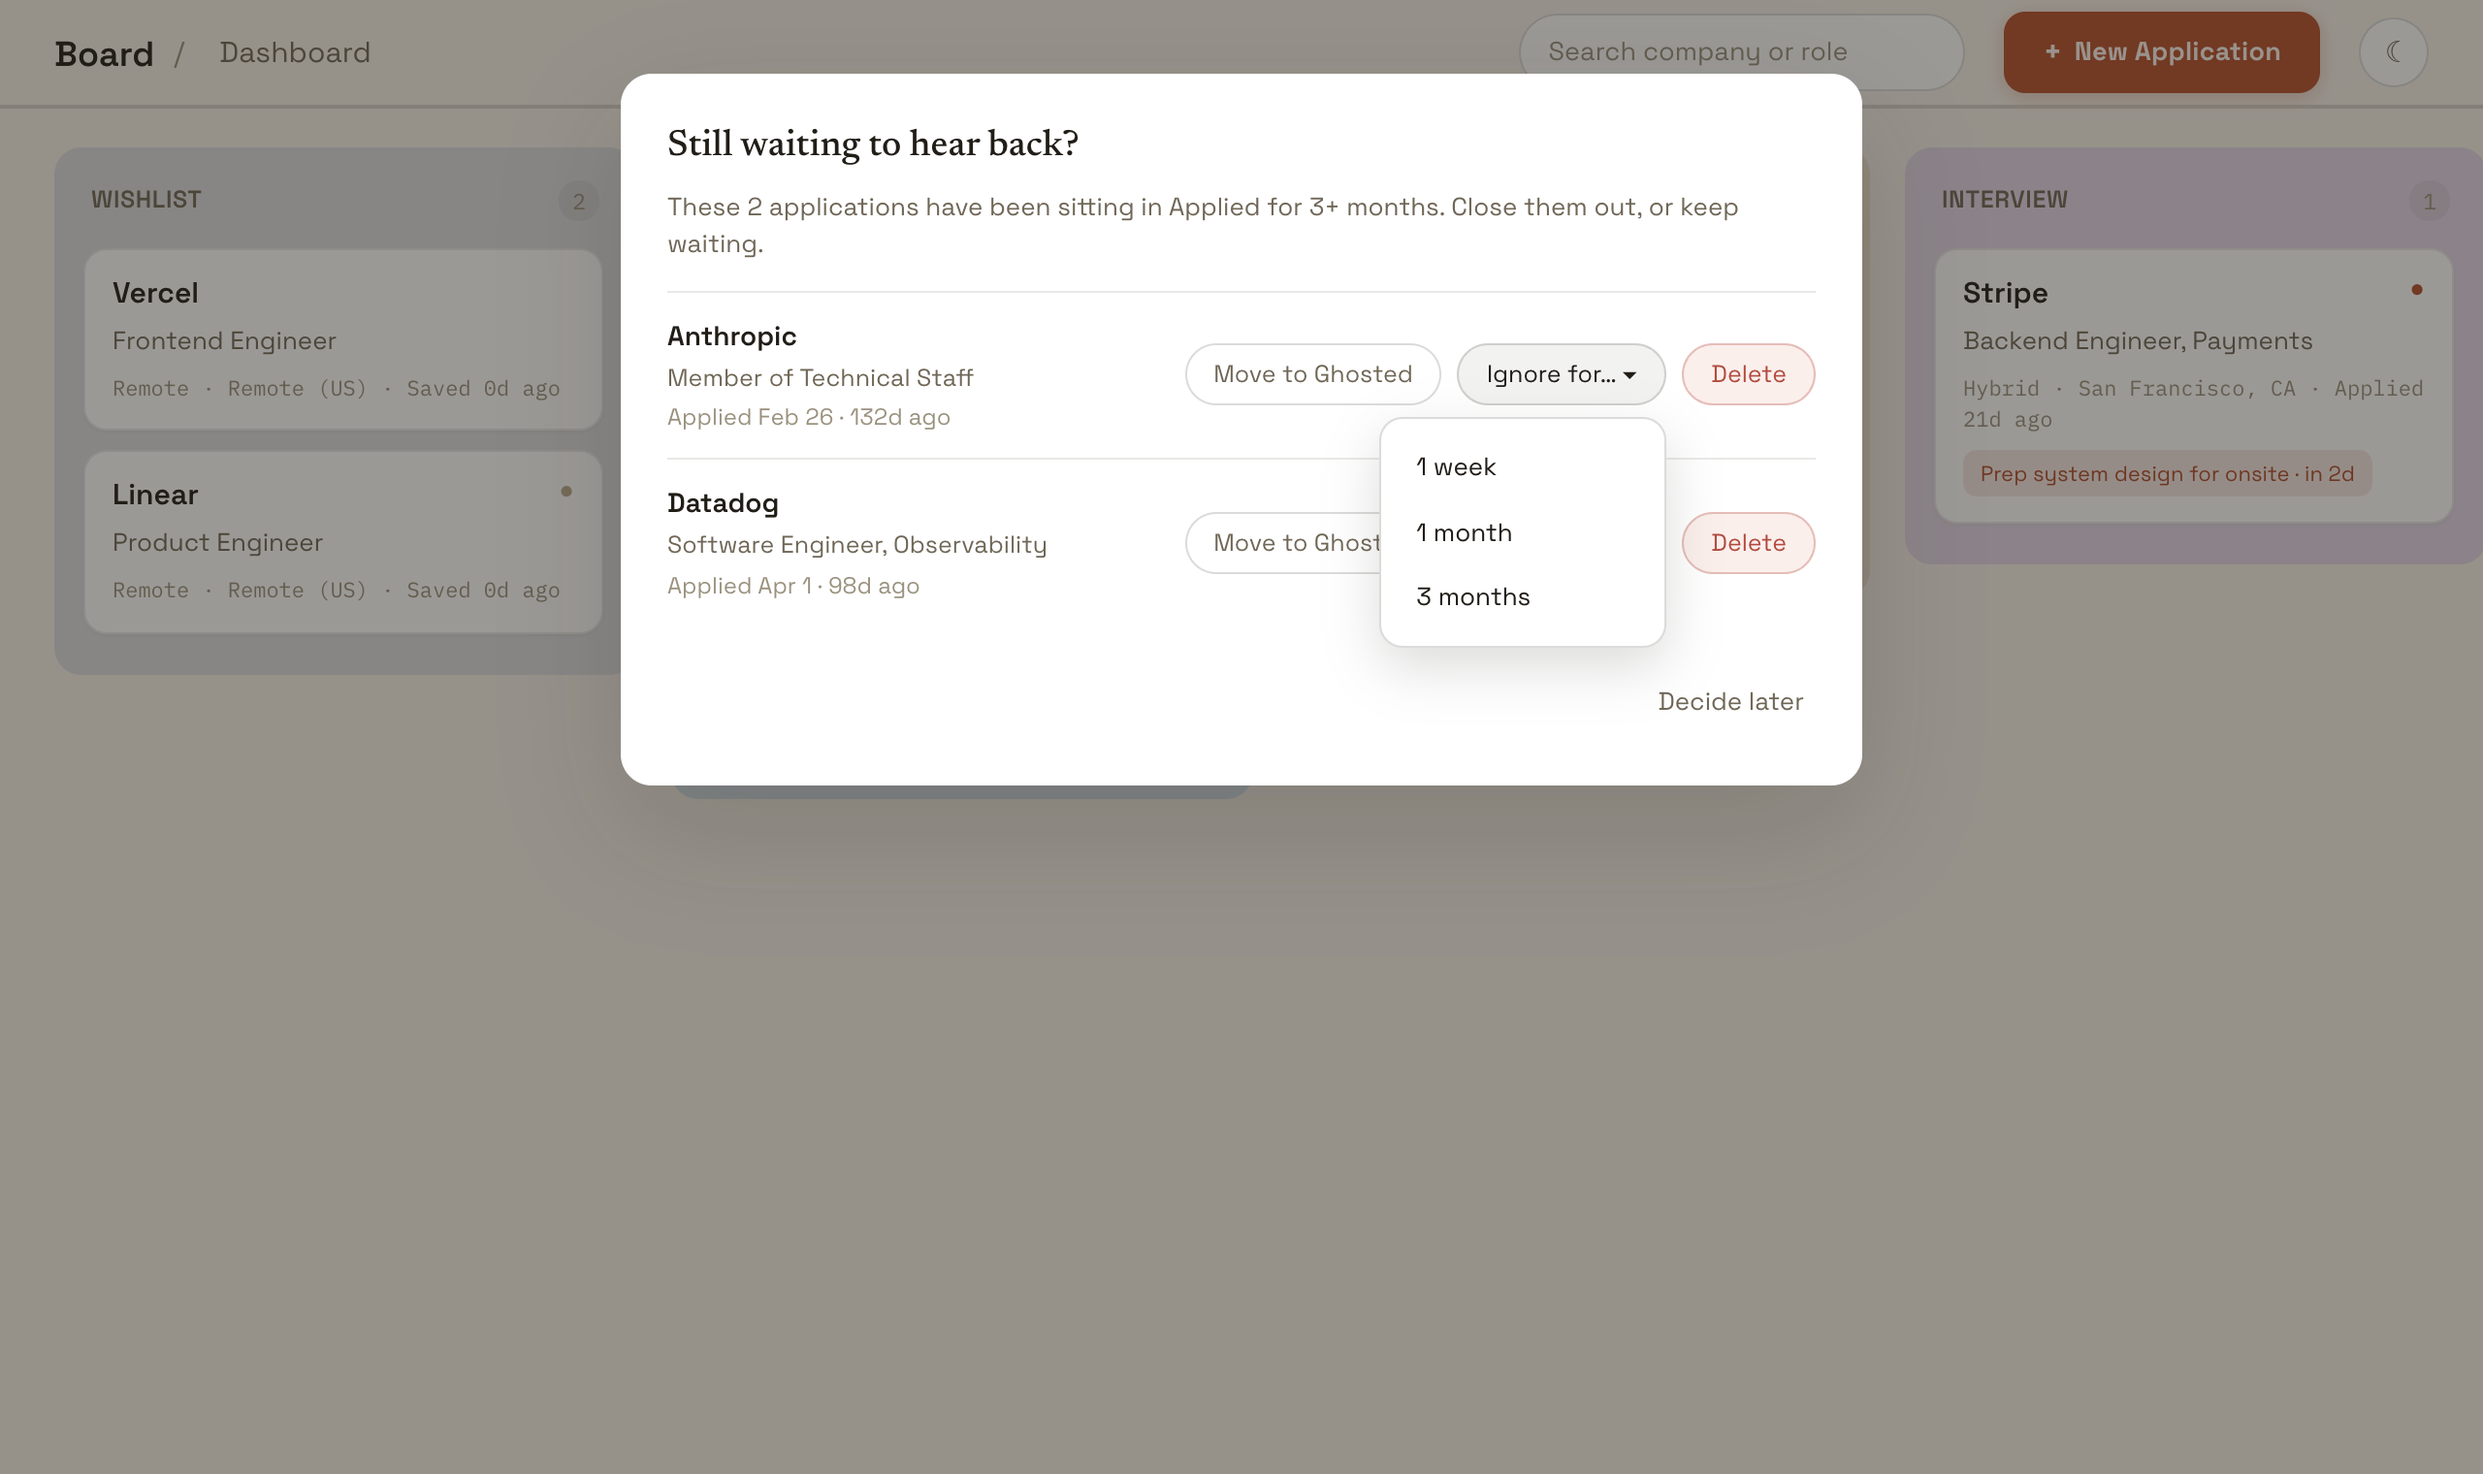
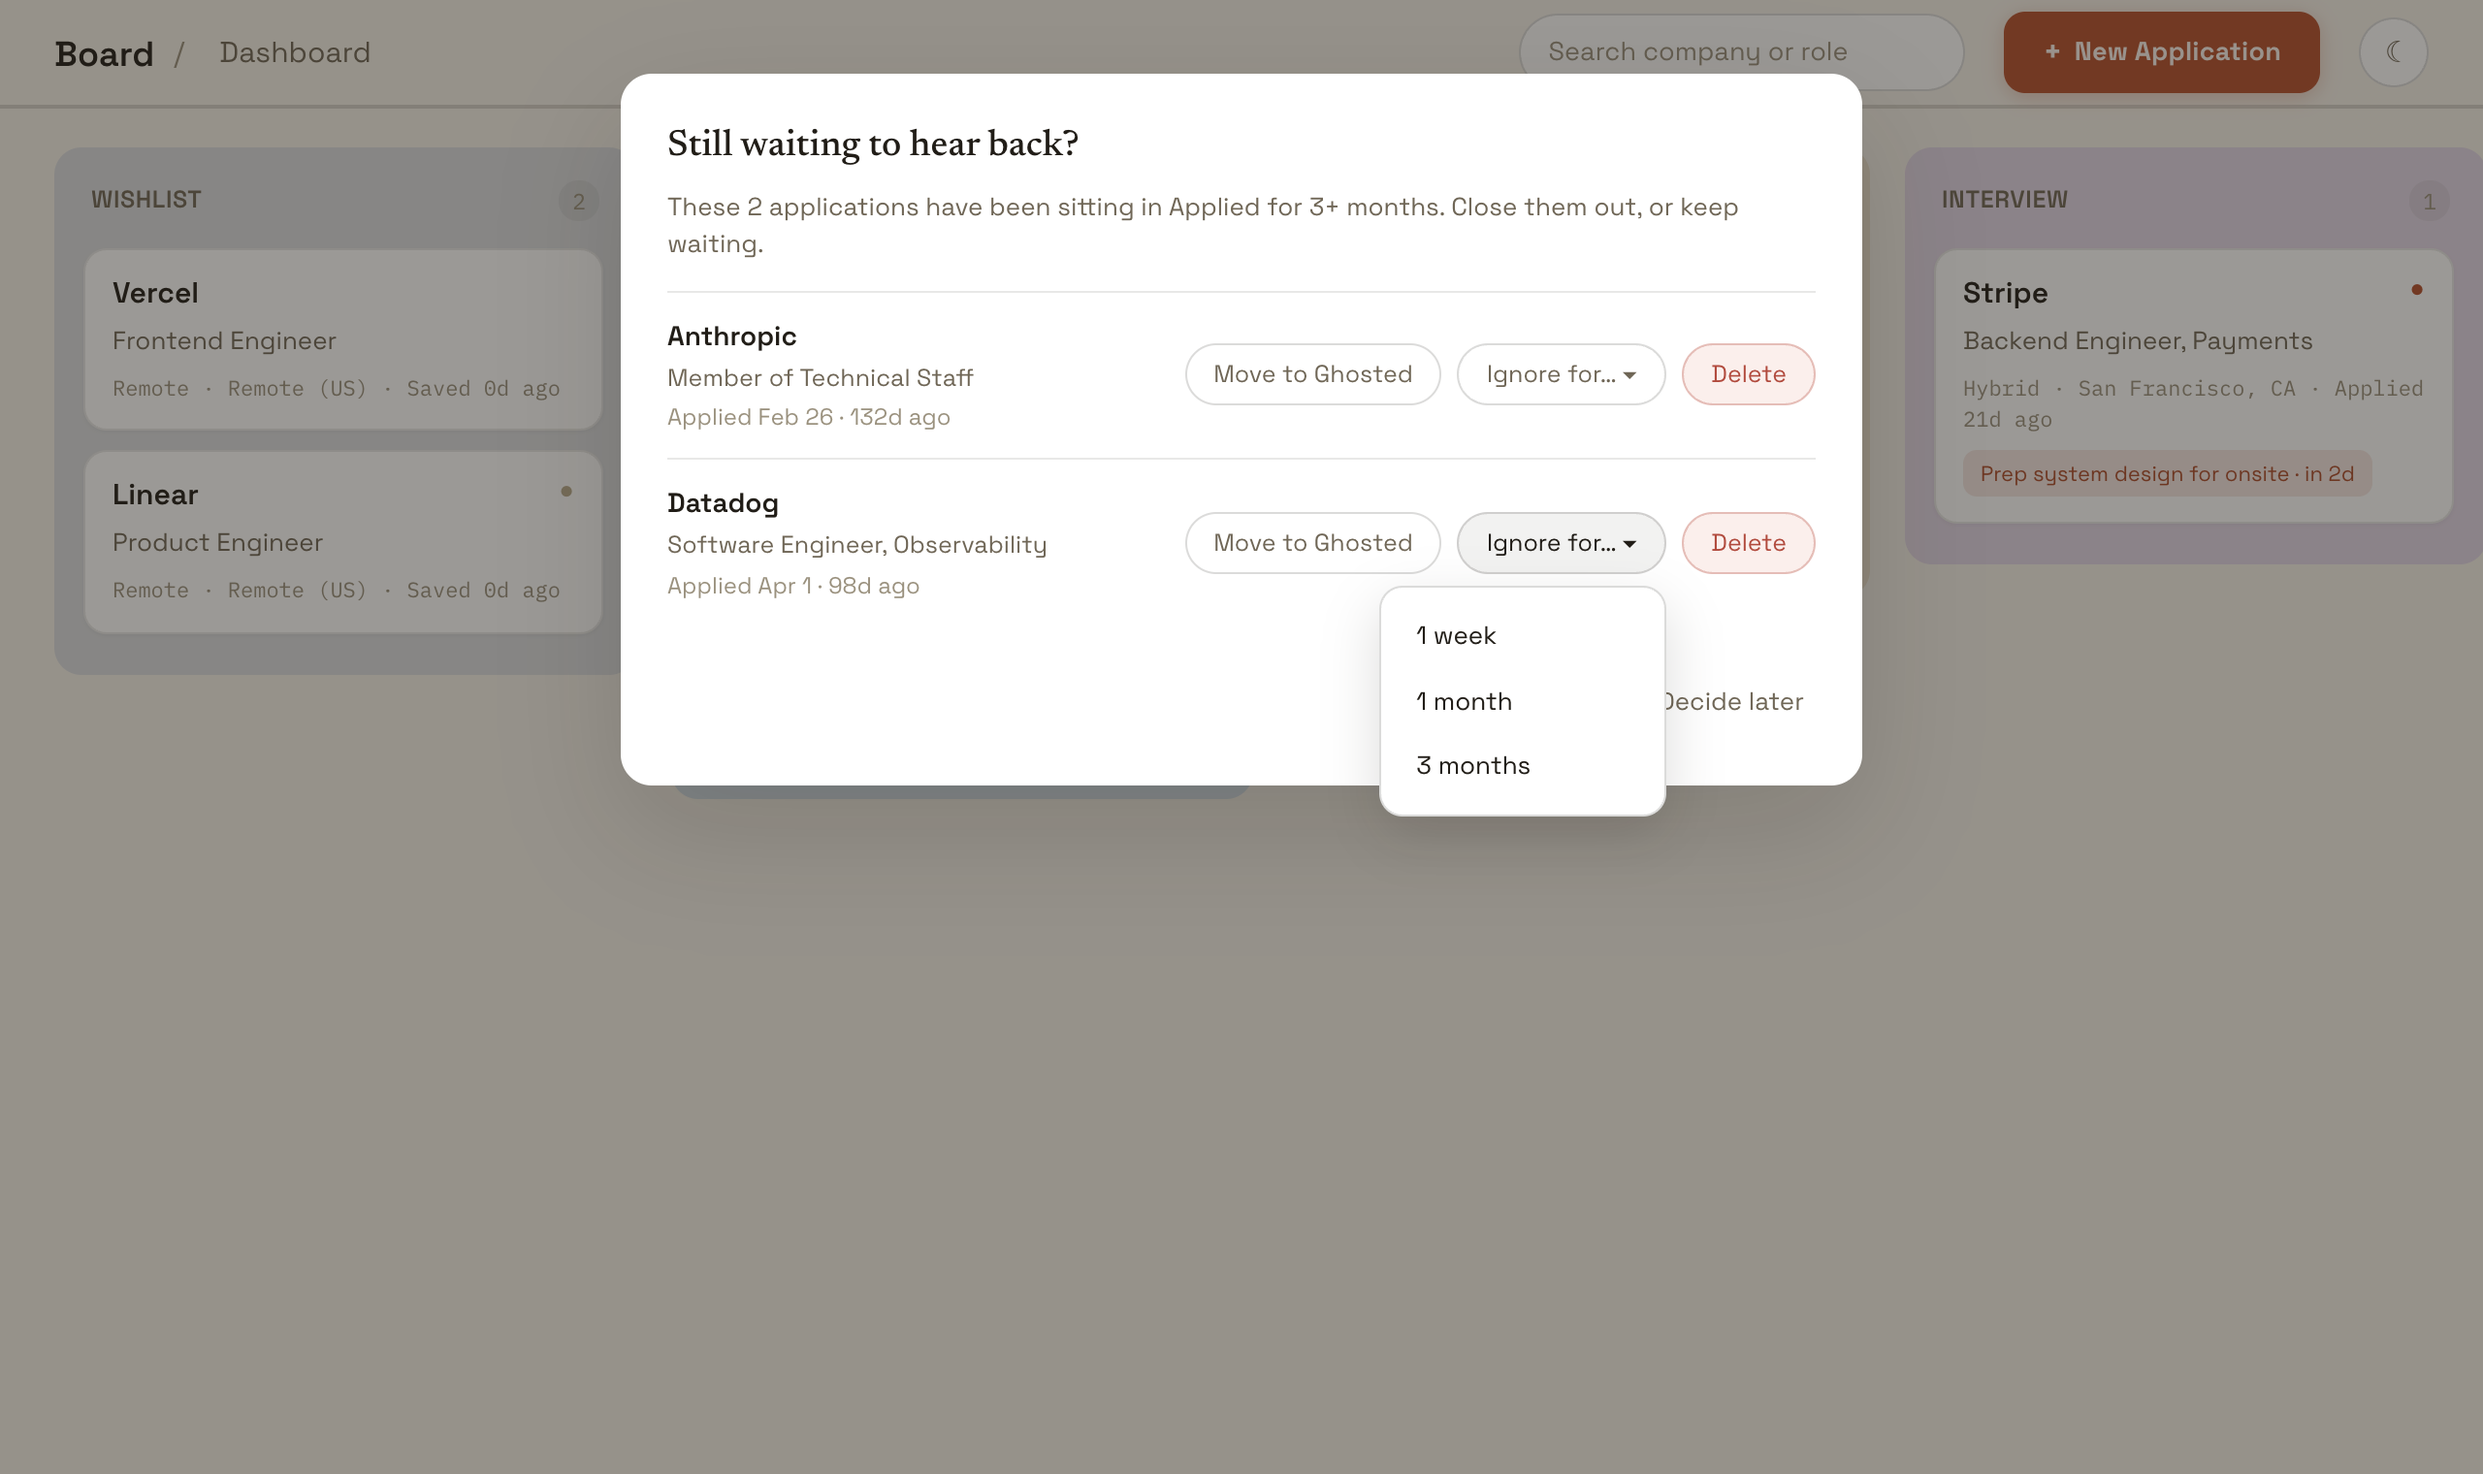
fix(frontend): keep the Ignore-for menu fully visible on the last row
The modal card is an overflow-y scroll container, so an absolutely
positioned menu below the last row got clipped and forced scrolling.
Anchor the menu with position: fixed from the trigger's rect instead
(flipping upward near the viewport edge, closing on card scroll) so
every option is visible without scrolling.

Changed region(s): [[0.5625, 0.3401, 0.6562, 0.4638], [0.5312, 0.5257, 0.6875, 0.5566], [0.5938, 0.2474, 0.625, 0.2783]]

diff --git a/frontend/src/components/board/StaleApplicationsCheck.tsx b/frontend/src/components/board/StaleApplicationsCheck.tsx
@@ -1,4 +1,4 @@
-import { useEffect, useState } from 'react'
+import { useEffect, useState, type MouseEvent } from 'react'
 import { api, errorMessage } from '../../api/client'
 import type { ApplicationCard } from '../../api/types'
 import { addDaysISO, shortDate } from '../../lib/dates'
@@ -10,6 +10,14 @@ const SNOOZE_OPTIONS = [
   { label: '1 month', days: 30 },
   { label: '3 months', days: 90 },
 ]
+
+// Room the open menu needs (3 options + padding), for the flip-up check.
+const MENU_HEIGHT = 140
+
+interface MenuAnchor {
+  id: number
+  pos: { top?: number; bottom?: number; right: number }
+}
 
 // One check per app launch: module state survives route changes but resets
 // on a full page load — "every time the user opens the app". Whichever page
@@ -33,8 +41,25 @@ export default function StaleApplicationsCheck({ onMutated }: Props) {
   const [stale, setStale] = useState<ApplicationCard[]>([])
   const [open, setOpen] = useState(false)
   const [deleting, setDeleting] = useState<ApplicationCard | null>(null)
-  const [menuFor, setMenuFor] = useState<number | null>(null)
+  const [menuFor, setMenuFor] = useState<MenuAnchor | null>(null)
   const toast = useToast()
+
+  // The modal card scrolls (overflow-y), which would clip an absolutely
+  // positioned menu on the last row — so the menu is position: fixed,
+  // anchored to the trigger's rect, flipping upward near the viewport edge.
+  const toggleMenu = (card: ApplicationCard, e: MouseEvent<HTMLButtonElement>) => {
+    if (menuFor?.id === card.id) {
+      setMenuFor(null)
+      return
+    }
+    const rect = e.currentTarget.getBoundingClientRect()
+    const right = window.innerWidth - rect.right
+    const pos =
+      rect.bottom + 6 + MENU_HEIGHT > window.innerHeight
+        ? { bottom: window.innerHeight - rect.top + 6, right }
+        : { top: rect.bottom + 6, right }
+    setMenuFor({ id: card.id, pos })
+  }
 
   useEffect(() => {
     if (checkedThisLaunch) return
@@ -96,7 +121,12 @@ export default function StaleApplicationsCheck({ onMutated }: Props) {
 
   return (
     <div className="overlay top-aligned">
-      <div className="modal-card stale-card" role="dialog" aria-label="Stale applications">
+      <div
+        className="modal-card stale-card"
+        role="dialog"
+        aria-label="Stale applications"
+        onScroll={() => setMenuFor(null)}
+      >
         <div className="modal-title">Still waiting to hear back?</div>
         <div className="stale-intro">
           {stale.length === 1
@@ -125,7 +155,7 @@ export default function StaleApplicationsCheck({ onMutated }: Props) {
                 className="stale-snooze-wrap"
                 onBlur={(e) => {
                   if (!e.currentTarget.contains(e.relatedTarget as Node | null)) {
-                    setMenuFor((m) => (m === card.id ? null : m))
+                    setMenuFor((m) => (m?.id === card.id ? null : m))
                   }
                 }}
                 onKeyDown={(e) => {
@@ -136,14 +166,14 @@ export default function StaleApplicationsCheck({ onMutated }: Props) {
                   type="button"
                   className="stale-snooze"
                   aria-haspopup="menu"
-                  aria-expanded={menuFor === card.id}
+                  aria-expanded={menuFor?.id === card.id}
                   aria-label={`Ignore ${card.company} for`}
-                  onClick={() => setMenuFor((m) => (m === card.id ? null : card.id))}
+                  onClick={(e) => toggleMenu(card, e)}
                 >
                   Ignore for… ▾
                 </button>
-                {menuFor === card.id && (
-                  <div className="stale-snooze-menu" role="menu">
+                {menuFor?.id === card.id && (
+                  <div className="stale-snooze-menu" role="menu" style={menuFor.pos}>
                     {SNOOZE_OPTIONS.map((option) => (
                       <button
                         key={option.days}

diff --git a/frontend/src/styles/global.css b/frontend/src/styles/global.css
@@ -383,10 +383,6 @@ textarea:focus {
   background: var(--tint-weak);
 }
 
-.stale-snooze-wrap {
-  position: relative;
-}
-
 .stale-snooze {
   border: 1px solid var(--border-strong);
   background: var(--surface);
@@ -398,18 +394,18 @@ textarea:focus {
   background: var(--tint-weak);
 }
 
-/* Same dropdown recipe as the detail modal's status-pill menu. */
+/* Same dropdown recipe as the detail modal's status-pill menu, but fixed
+   to the viewport (anchored via inline top/bottom/right from the trigger's
+   rect) so the modal card's overflow scroll never clips it. */
 .stale-snooze-menu {
-  position: absolute;
-  top: 38px;
-  right: 0;
+  position: fixed;
   background: var(--surface);
   border: 1px solid var(--border-strong);
   border-radius: 12px;
   box-shadow: 0 10px 28px var(--border-strong);
   padding: 8px;
   width: 148px;
-  z-index: 30;
+  z-index: 60;
 }
 
 .stale-snooze-option {
